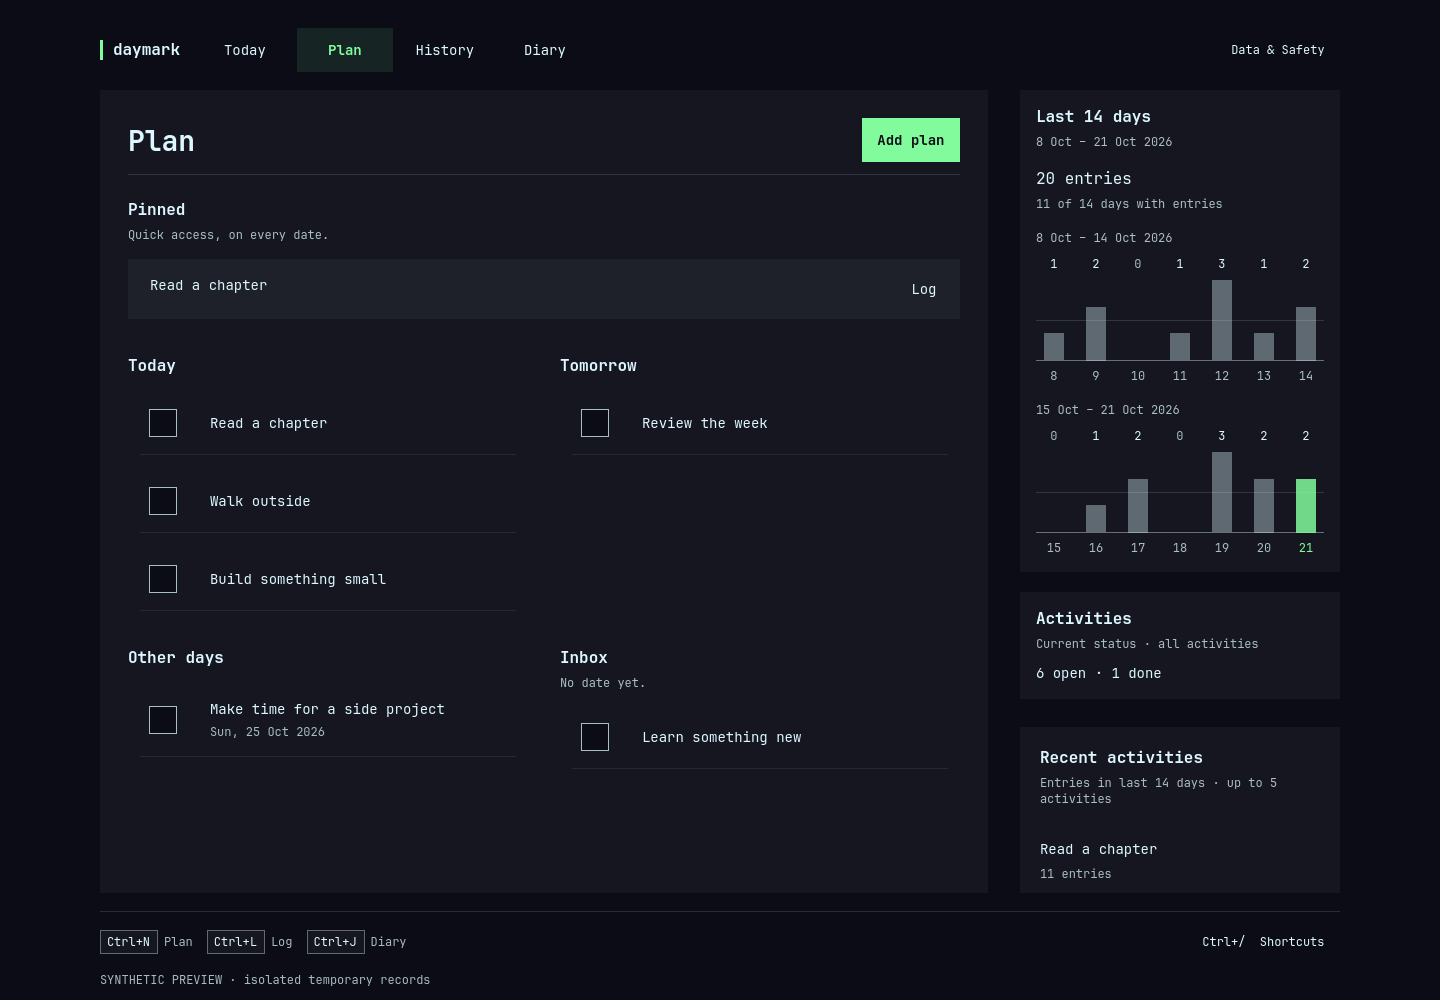
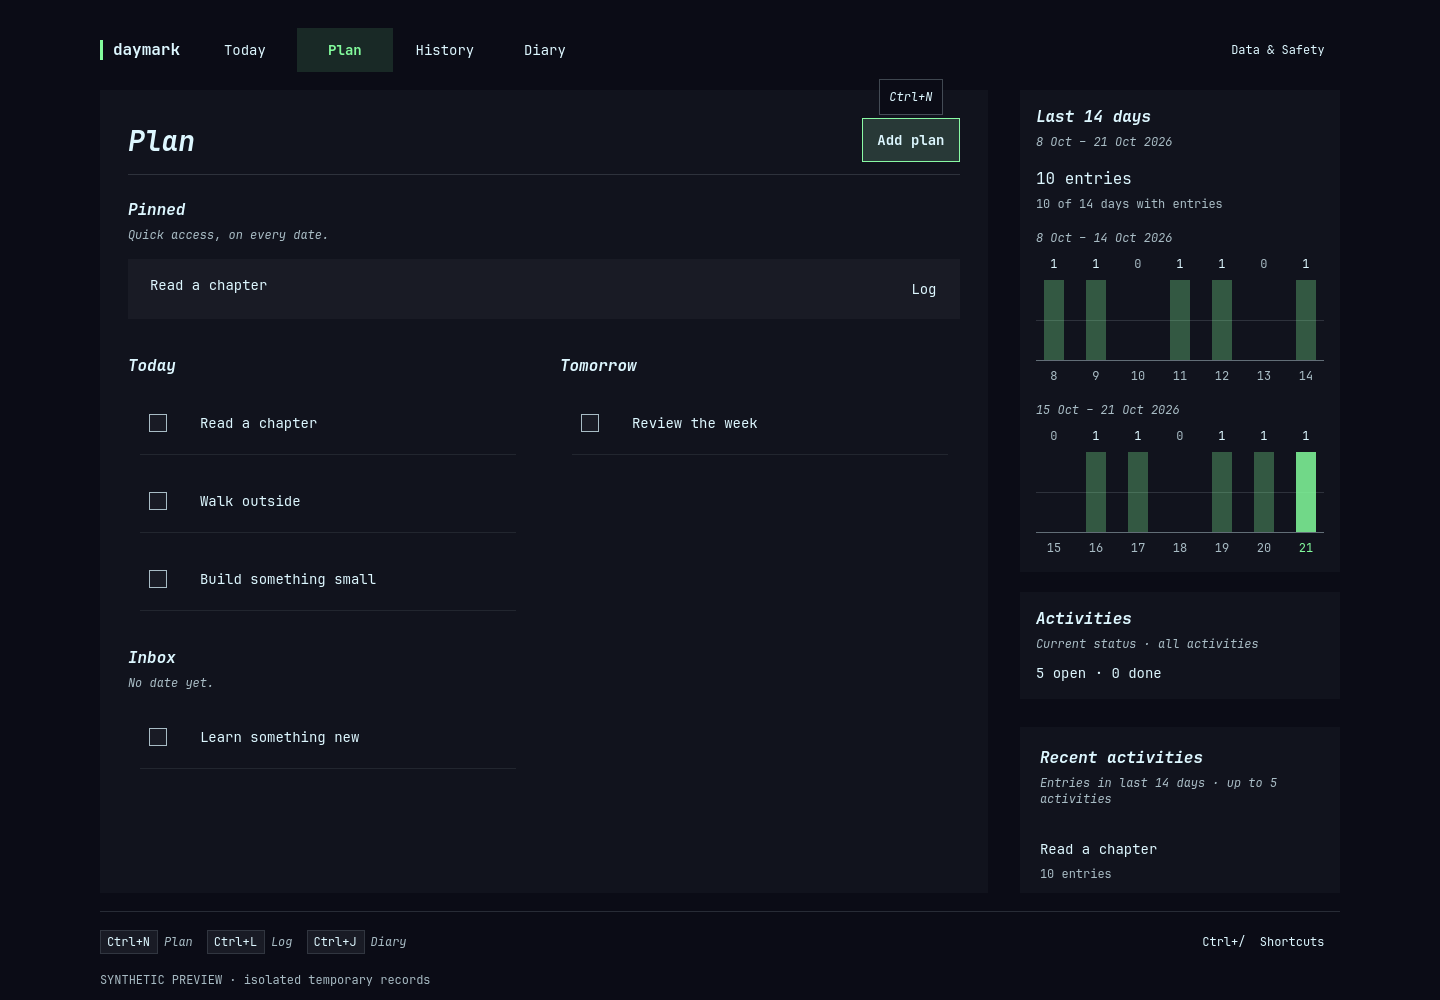
Polish theme-aware hints, typography, checkboxes, and colors

diff --git a/prototype/DButton.qml b/prototype/DButton.qml
@@ -13,9 +13,6 @@ Button {
     font.family: theme.family
     font.pixelSize: theme.body
     font.bold: selected || primary
-    palette.toolTipBase: theme.background
-    palette.toolTipText: theme.foreground
-    palette.dark: theme.border
     focusPolicy: Qt.StrongFocus
     onActiveFocusChanged: { if (activeFocus) Qt.callLater(() => Focus.reveal(root)); }
     hoverEnabled: true
@@ -29,19 +26,19 @@ Button {
         text: root.text
         textFormat: Text.PlainText
         font: root.font
-        color: root.primary ? root.theme.accentText : root.selected ? root.theme.accent : root.theme.foreground
+        color: root.selected && !root.primary ? root.theme.accent : root.theme.foreground
         horizontalAlignment: Text.AlignHCenter
         verticalAlignment: Text.AlignVCenter
         elide: Text.ElideRight
     }
     background: Rectangle {
-        color: root.primary ? root.theme.accent : root.selected ? root.theme.accentSurface
+        color: root.primary || root.selected ? root.theme.accentSurface
             : root.quiet && root.paintState === "normal" ? "transparent"
-            : root.paintState === "normal" ? root.theme.surface : root.theme.fill(root.paintState)
+            : root.paintState === "normal" ? root.theme.controlSurface : root.theme.fill(root.paintState)
         radius: root.theme.radius
-        border.color: root.visualFocus ? root.theme.accent : root.theme.stroke(root.paintState)
+        border.color: root.visualFocus || root.primary ? root.theme.accent : root.theme.stroke(root.paintState)
         border.width: root.visualFocus ? Math.max(1, root.theme.strokeWidth("focus"))
-            : root.quiet || root.primary ? 0 : root.theme.strokeWidth(root.paintState)
+            : root.primary ? 1 : root.quiet ? 0 : root.theme.strokeWidth(root.paintState)
         Rectangle {
             anchors.fill: parent
             radius: parent.radius
@@ -55,13 +52,31 @@ Button {
             radius: Math.max(0, parent.radius - root.theme.space(3))
             visible: root.visualFocus
             color: "transparent"
-            border.color: root.primary ? root.theme.accentText : root.theme.accent
+            border.color: root.primary ? root.theme.foreground : root.theme.accent
             border.width: Math.max(1, root.theme.strokeWidth("focus"))
         }
     }
     Accessible.name: text
     Accessible.description: shortcutHint
-    ToolTip.visible: enabled && shortcutHint !== "" && (hovered || visualFocus)
-    ToolTip.delay: 650
-    ToolTip.text: shortcutHint
+    ToolTip {
+        id: shortcutTip
+        objectName: "shortcutHint"
+        visible: root.enabled && root.shortcutHint !== "" && (root.hovered || root.visualFocus)
+        delay: 650
+        text: root.shortcutHint
+        padding: root.theme.space(10)
+        margins: root.theme.space(8)
+        contentItem: DText {
+            theme: root.theme
+            text: shortcutTip.text
+            color: root.theme.hintText
+            font.pixelSize: root.theme.small
+            font.italic: true
+        }
+        background: Rectangle {
+            color: root.theme.hintBackground
+            border.color: Qt.rgba(root.theme.hintText.r, root.theme.hintText.g, root.theme.hintText.b, 0.25)
+            radius: root.theme.radius
+        }
+    }
 }

diff --git a/prototype/KeyboardShortcuts.qml b/prototype/KeyboardShortcuts.qml
@@ -25,8 +25,8 @@ Popup {
         spacing: root.theme.space(20)
         ColumnLayout {
             Layout.fillWidth: true; spacing: root.theme.space(8)
-            DText { theme: root.theme; text: "Keyboard shortcuts"; font.pixelSize: root.theme.title; font.bold: true; Layout.fillWidth: true }
-            DText { theme: root.theme; text: "A few keys for planning, writing and finding things."; color: root.theme.secondary; Layout.fillWidth: true }
+            DText { theme: root.theme; text: "Keyboard shortcuts"; font.pixelSize: root.theme.title; font.bold: true; font.italic: true; Layout.fillWidth: true }
+            DText { theme: root.theme; text: "A few keys for planning, writing and finding things."; color: root.theme.secondary; font.italic: true; Layout.fillWidth: true }
         }
         ScrollView {
             id: scroll
@@ -102,7 +102,7 @@ Popup {
                             spacing: root.theme.space(14)
                             DText {
                                 theme: root.theme; text: groupCard.modelData.title
-                                font.pixelSize: root.theme.heading; font.bold: true
+                                font.pixelSize: root.theme.heading; font.bold: true; font.italic: true
                                 Layout.fillWidth: true
                             }
                             Repeater {
@@ -127,7 +127,7 @@ Popup {
         RowLayout {
             Layout.fillWidth: true; spacing: root.theme.space(16)
             DText {
-                theme: root.theme; Layout.fillWidth: true; font.pixelSize: root.theme.small; color: root.theme.secondary
+                theme: root.theme; Layout.fillWidth: true; font.pixelSize: root.theme.small; font.italic: true; color: root.theme.secondary
                 text: "Adding a plan keeps its date and starts a fresh title. Done closes the form; unsaved drafts ask before discarding.\nDiary autosaves. Text keeps its normal Undo and Redo."
             }
             DButton { theme: root.theme; text: "Close"; objectName: "shortcutsClose"; onClicked: root.close() }

diff --git a/prototype/Composer.qml b/prototype/Composer.qml
@@ -208,6 +208,7 @@ Popup {
                 text: root.mode === "plan" ? "Plan activities" : "Log an activity"
                 font.pixelSize: root.theme.title
                 font.bold: true
+                font.italic: true
             }
             DText {
                 theme: root.theme
@@ -216,6 +217,7 @@ Popup {
                 text: "Add one plan at a time. Your selected date stays the same."
                 color: root.theme.secondary
                 font.pixelSize: root.theme.small
+                font.italic: true
             }
         }
         RowLayout {
@@ -371,6 +373,7 @@ Popup {
                             text: "Enter: next"
                             color: root.theme.secondary
                             font.pixelSize: root.theme.small
+                            font.italic: true
                             horizontalAlignment: Text.AlignRight
                         }
                     }
@@ -399,6 +402,7 @@ Popup {
                             text: "Space: calendar · Enter: next"
                             color: root.theme.secondary
                             font.pixelSize: root.theme.small
+                            font.italic: true
                             horizontalAlignment: Text.AlignRight
                         }
                     }
@@ -430,6 +434,7 @@ Popup {
                             text: "Enter: next · Shift+Enter: new line"
                             color: root.theme.secondary
                             font.pixelSize: root.theme.small
+                            font.italic: true
                             horizontalAlignment: Text.AlignRight
                         }
                     }

diff --git a/prototype/Workspace.qml b/prototype/Workspace.qml
@@ -350,6 +350,7 @@ Rectangle {
                                 text: root.page === "Today" ? (root.store.date === root.store.today ? "Today" : Display.day(root.store.date, root.store.today)) : root.page
                                 font.pixelSize: root.narrow ? root.theme.title : root.theme.pageTitle
                                 font.bold: true
+                                font.italic: true
                                 Layout.fillWidth: true; Layout.minimumWidth: 0
                             }
                             DButton {
@@ -491,7 +492,7 @@ Rectangle {
                             required property var modelData
                             spacing: root.theme.space(7)
                             Keycap { theme: root.theme; text: hint.modelData.keys }
-                            DText { theme: root.theme; text: hint.modelData.purpose; font.pixelSize: root.theme.small; color: root.theme.secondary; anchors.verticalCenter: parent.verticalCenter }
+                            DText { theme: root.theme; text: hint.modelData.purpose; font.pixelSize: root.theme.small; font.italic: true; color: root.theme.secondary; anchors.verticalCenter: parent.verticalCenter }
                         }
                     }
                 }

diff --git a/integration/ShellTheme.qml b/integration/ShellTheme.qml
@@ -16,8 +16,11 @@ QtObject {
     readonly property color urgent: Commons.Color.urgent
     readonly property color secondary: Qt.rgba(foreground.r, foreground.g, foreground.b, 0.74)
     readonly property color border: Commons.Style.normalBorderFor(foreground, accent, urgent)
-    readonly property color surface: Qt.rgba(foreground.r, foreground.g, foreground.b, 0.045)
-    readonly property color accentSurface: Qt.rgba(accent.r, accent.g, accent.b, 0.10)
+    readonly property color surface: Qt.tint(background, Qt.rgba(foreground.r, foreground.g, foreground.b, 0.03))
+    readonly property color controlSurface: Qt.tint(background, Qt.rgba(foreground.r, foreground.g, foreground.b, 0.065))
+    readonly property color accentSurface: Qt.tint(background, Qt.rgba(accent.r, accent.g, accent.b, 0.12))
+    readonly property color hintBackground: Palette.luminance(background) < Palette.luminance(foreground) ? background : foreground
+    readonly property color hintText: Palette.ink(hintBackground, background, foreground)
     readonly property color accentText: Palette.ink(root.accent, root.background, root.foreground)
     readonly property real radius: Commons.Style.cornerRadius
     readonly property string family: fontTokens.family

diff --git a/prototype/Theme.qml b/prototype/Theme.qml
@@ -12,8 +12,11 @@ QtObject {
     readonly property color urgent: source.urgent
     readonly property color secondary: Qt.rgba(foreground.r, foreground.g, foreground.b, 0.74)
     readonly property color border: source.states.normal.border
-    readonly property color surface: Qt.rgba(foreground.r, foreground.g, foreground.b, 0.045)
-    readonly property color accentSurface: Qt.rgba(accent.r, accent.g, accent.b, 0.10)
+    readonly property color surface: Qt.tint(background, Qt.rgba(foreground.r, foreground.g, foreground.b, 0.03))
+    readonly property color controlSurface: Qt.tint(background, Qt.rgba(foreground.r, foreground.g, foreground.b, 0.065))
+    readonly property color accentSurface: Qt.tint(background, Qt.rgba(accent.r, accent.g, accent.b, 0.12))
+    readonly property color hintBackground: Palette.luminance(background) < Palette.luminance(foreground) ? background : foreground
+    readonly property color hintText: Palette.ink(hintBackground, background, foreground)
     readonly property color accentText: Palette.ink(root.accent, root.background, root.foreground)
     readonly property real radius: source.radius
     readonly property string family: source.family

diff --git a/prototype/EntryBars.qml b/prototype/EntryBars.qml
@@ -44,6 +44,7 @@ ColumnLayout {
                 text: Display.span(root.days[weekRow.firstDay].date, root.days[weekRow.firstDay + weekRow.dayCount - 1].date)
                 color: root.theme.secondary
                 font.pixelSize: root.theme.small
+                font.italic: true
                 wrapMode: Text.Wrap
             }
             Item {
@@ -109,8 +110,8 @@ ColumnLayout {
                                     anchors.horizontalCenter: parent.horizontalCenter
                                     width: Math.min(parent.width, root.theme.space(20))
                                     height: root.maximum > 0 ? parent.height * dayColumn.entries / root.maximum : 0
-                                    color: dayColumn.currentDay ? root.theme.accent : root.theme.secondary
-                                    opacity: dayColumn.currentDay ? 0.85 : 0.5
+                                    color: root.theme.accent
+                                    opacity: dayColumn.currentDay ? 0.85 : 0.30
                                     radius: root.theme.radius
                                 }
                             }

diff --git a/prototype/PlanView.qml b/prototype/PlanView.qml
@@ -18,8 +18,8 @@ ColumnLayout {
             anchors.centerIn: parent
             width: Math.min(parent.width, root.theme.space(460))
             spacing: root.theme.space(14)
-            DText { theme: root.theme; text: "Room for a new plan."; font.pixelSize: root.theme.title; Layout.fillWidth: true; horizontalAlignment: Text.AlignHCenter }
-            DText { theme: root.theme; text: "Use Add plan to collect what you'd like to do. You can add several without closing the form."; color: root.theme.secondary; Layout.fillWidth: true; horizontalAlignment: Text.AlignHCenter }
+            DText { theme: root.theme; text: "Room for a new plan."; font.pixelSize: root.theme.title; font.italic: true; Layout.fillWidth: true; horizontalAlignment: Text.AlignHCenter }
+            DText { theme: root.theme; text: "Use Add plan to collect what you'd like to do. You can add several without closing the form."; color: root.theme.secondary; font.italic: true; Layout.fillWidth: true; horizontalAlignment: Text.AlignHCenter }
         }
     }
     GridLayout {

diff --git a/prototype/ActivityRow.qml b/prototype/ActivityRow.qml
@@ -35,7 +35,7 @@ Rectangle {
             contentItem: Column {
                 id: labels; spacing: root.theme.space(5)
                 DText { theme: root.theme; width: parent.width; text: root.activity.title; font.pixelSize: root.theme.body; maximumLineCount: 2; elide: Text.ElideRight; font.strikeout: root.activity.status === "done"; color: root.activity.status === "done" ? root.theme.secondary : root.theme.foreground }
-                DText { theme: root.theme; width: parent.width; text: root.contextText; visible: text !== ""; color: root.theme.secondary; font.pixelSize: root.theme.small; maximumLineCount: 1; elide: Text.ElideRight }
+                DText { theme: root.theme; width: parent.width; text: root.contextText; visible: text !== ""; color: root.theme.secondary; font.pixelSize: root.theme.small; font.italic: true; maximumLineCount: 1; elide: Text.ElideRight }
             }
             Accessible.name: root.activity.title + ", open activity"
             onClicked: root.detailsRequested(root.activity.id)

diff --git a/prototype/ActivityDetail.qml b/prototype/ActivityDetail.qml
@@ -133,7 +133,7 @@ Item {
                 DText { theme: root.theme; text: "This activity is no longer available."; visible: !root.current; Layout.fillWidth: true }
                 ColumnLayout {
                     visible: !!root.current && !root.editing; Layout.fillWidth: true; spacing: root.theme.space(18)
-                    DText { theme: root.theme; text: root.current ? root.current.title : ""; font.pixelSize: root.theme.pageTitle; font.bold: true; Layout.fillWidth: true }
+                    DText { theme: root.theme; text: root.current ? root.current.title : ""; font.pixelSize: root.theme.pageTitle; font.bold: true; font.italic: true; Layout.fillWidth: true }
                     DText {
                         theme: root.theme; Layout.fillWidth: true; color: root.theme.secondary
                         text: !root.current ? "" : root.current.status === "done" ? "Completed " + Display.day(root.current.completedDate, root.store.today)

diff --git a/prototype/DCheckBox.qml b/prototype/DCheckBox.qml
@@ -11,6 +11,8 @@ CheckBox {
     hoverEnabled: true
     padding: theme.space(8)
     spacing: theme.space(10)
+    indicator.implicitWidth: theme.space(18)
+    indicator.implicitHeight: theme.space(18)
     implicitHeight: Math.max(theme.space(44), theme.source.spacing["control-height"],
         implicitContentHeight + topPadding + bottomPadding,
         implicitIndicatorHeight + topPadding + bottomPadding)
@@ -20,7 +22,7 @@ CheckBox {
     palette.windowText: theme.foreground
     palette.buttonText: theme.foreground
     palette.text: checked ? theme.accentText : theme.foreground
-    palette.base: checked ? theme.accent : theme.background
+    palette.base: checked ? theme.accent : theme.controlSurface
     palette.light: checked ? theme.accent : theme.fill("pressed")
     palette.mid: checked || hovered ? theme.accent : theme.secondary
     palette.highlight: theme.accent

diff --git a/prototype/DiaryLocked.qml b/prototype/DiaryLocked.qml
@@ -43,7 +43,7 @@ Item {
                 }
                 DText {
                     theme: root.theme; text: "A space that's yours."
-                    font.pixelSize: root.theme.pageTitle; font.bold: true
+                    font.pixelSize: root.theme.pageTitle; font.bold: true; font.italic: true
                     horizontalAlignment: Text.AlignHCenter; Layout.fillWidth: true
                 }
                 DText {
@@ -51,6 +51,7 @@ Item {
                     text: "Your days, in your own words. Unlock your diary to write a page or return to an earlier one."
                     horizontalAlignment: Text.AlignHCenter; Layout.fillWidth: true
                     color: root.theme.secondary
+                    font.italic: true
                 }
                 DButton {
                     id: unlockButton
